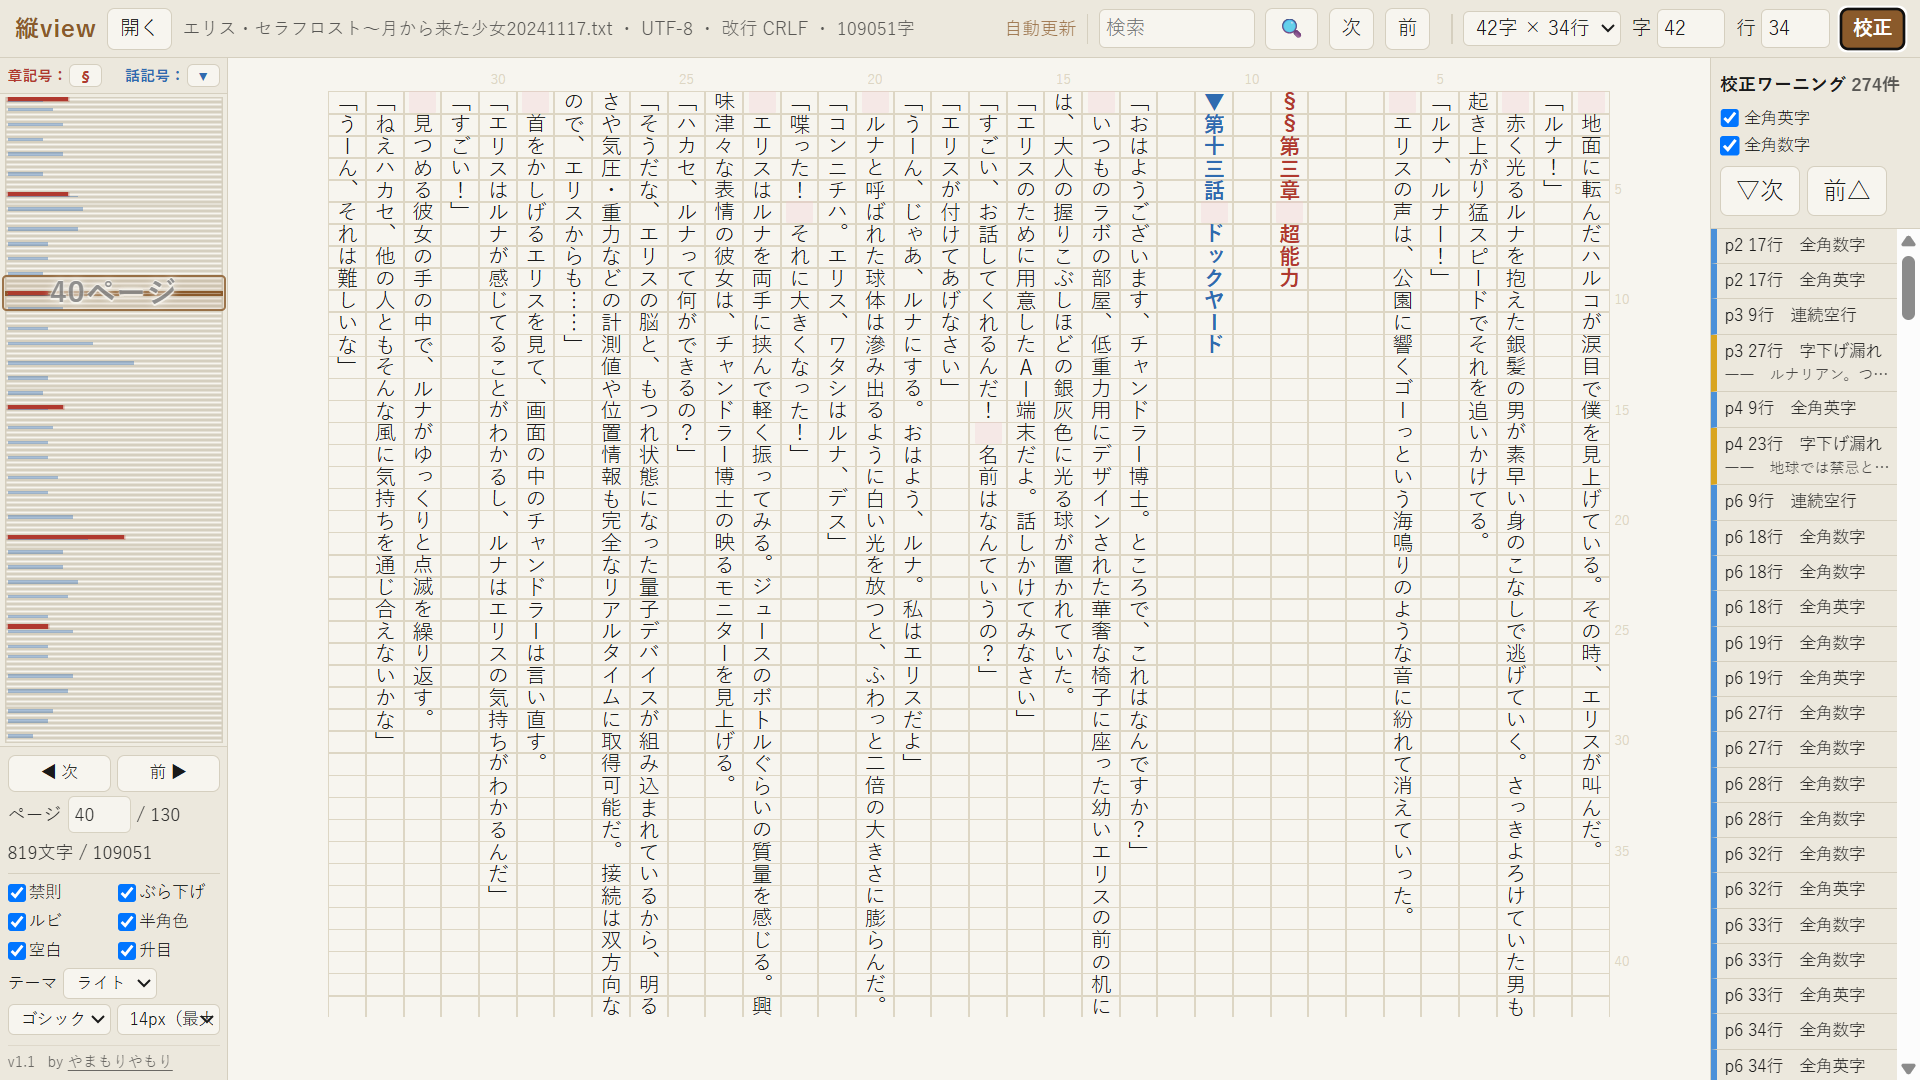
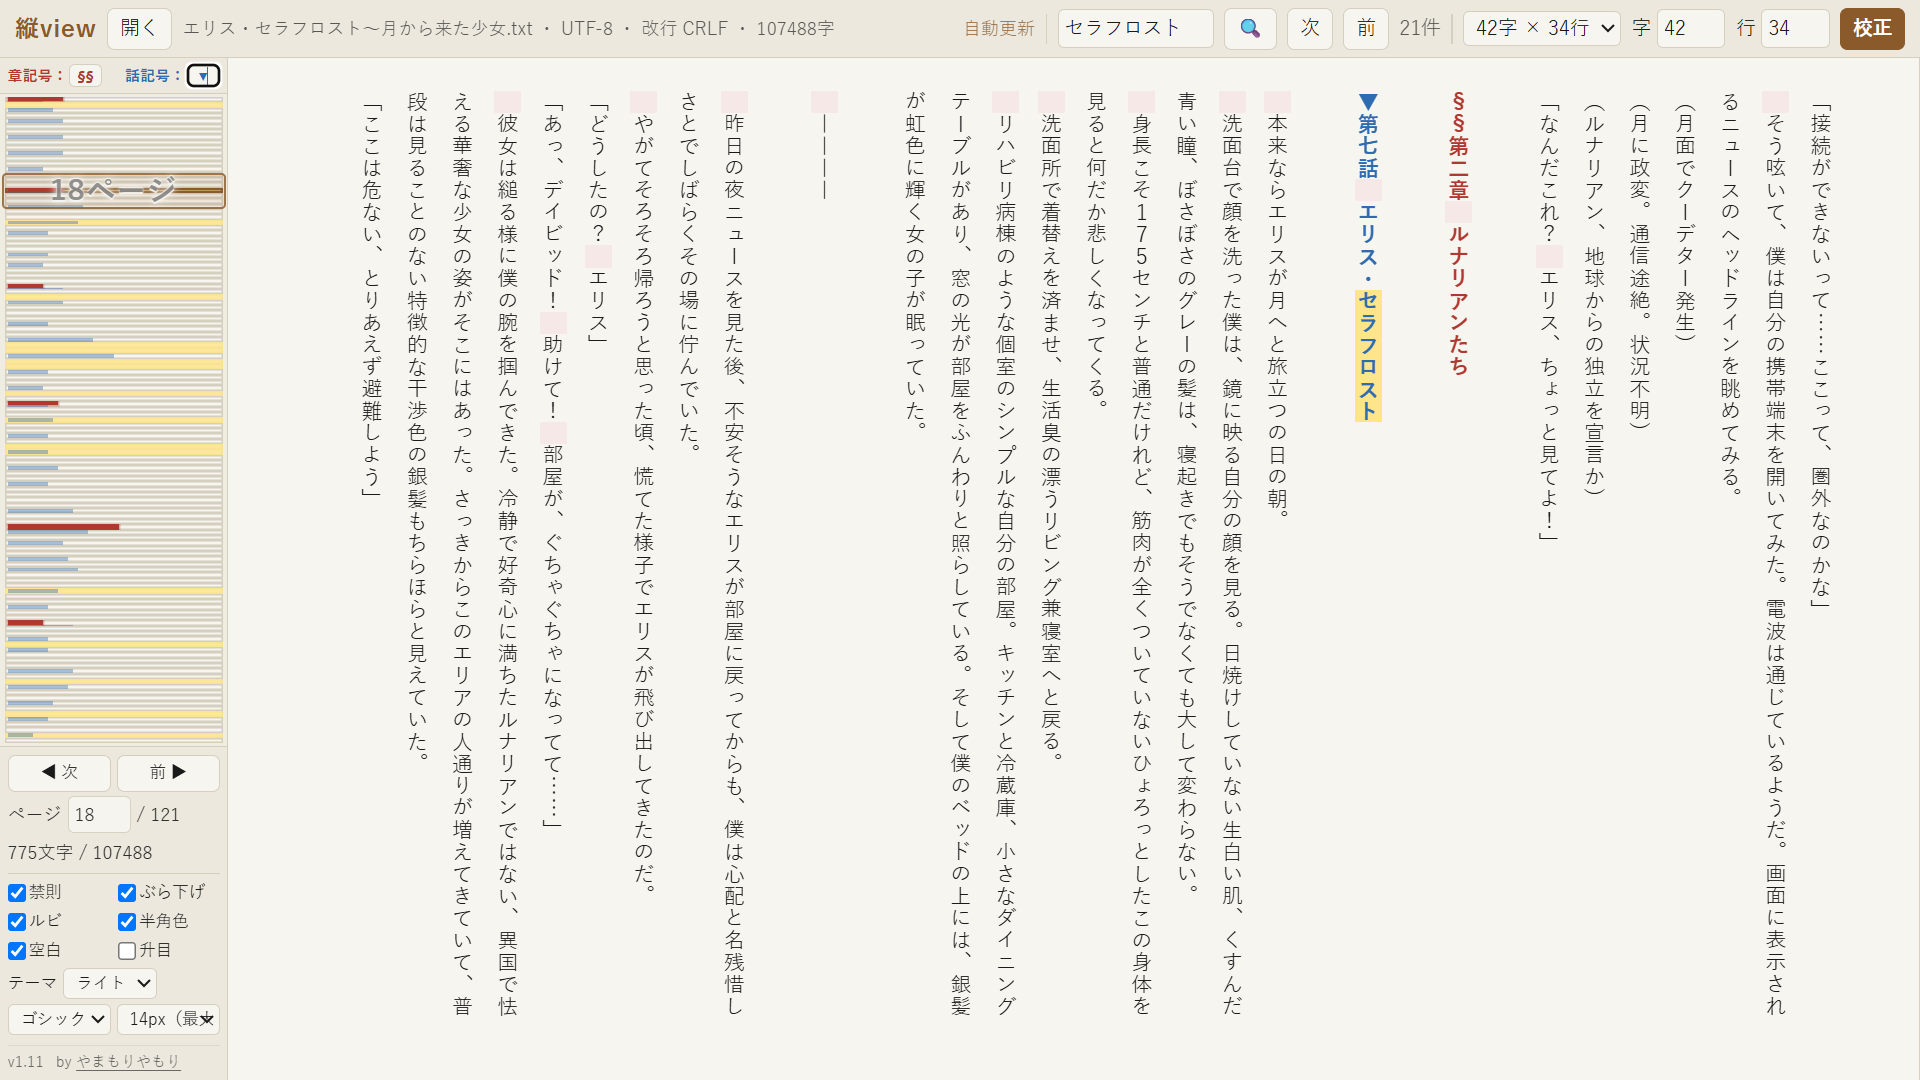
v.1.11

diff --git a/README.md b/README.md
@@ -11,7 +11,7 @@
 ---
 
 ## 使い方
- 
+
 1. [こちら](https://github.com/yamamori-yamori/tateview/raw/refs/heads/main/TateView.zip)をダウンロードしてzipを解凍し、`TateView.html` をブラウザで開く（Chrome / Edge / Firefox 推奨）。
    または、 [作者HP](https://yamamori-yamori.github.io/mypage/)から「WEB版」をご使用ください。
 2. 左上の「開く」でテキストファイルを指定してください。ドラッグアンドドロップも出来ます。
@@ -40,5 +40,7 @@
 　ドラッグアンドドロップサポート。未編集画面クリックでファイル選択追加。
 - ver.1.1 公開。
 　左のサムネイルをミニマップに変更。マウスドラッグでスクロール可能にした。
+- ver.1.11 公開。
+　ミニマップに検索も対応。黄色で色が付きます。
 
 
